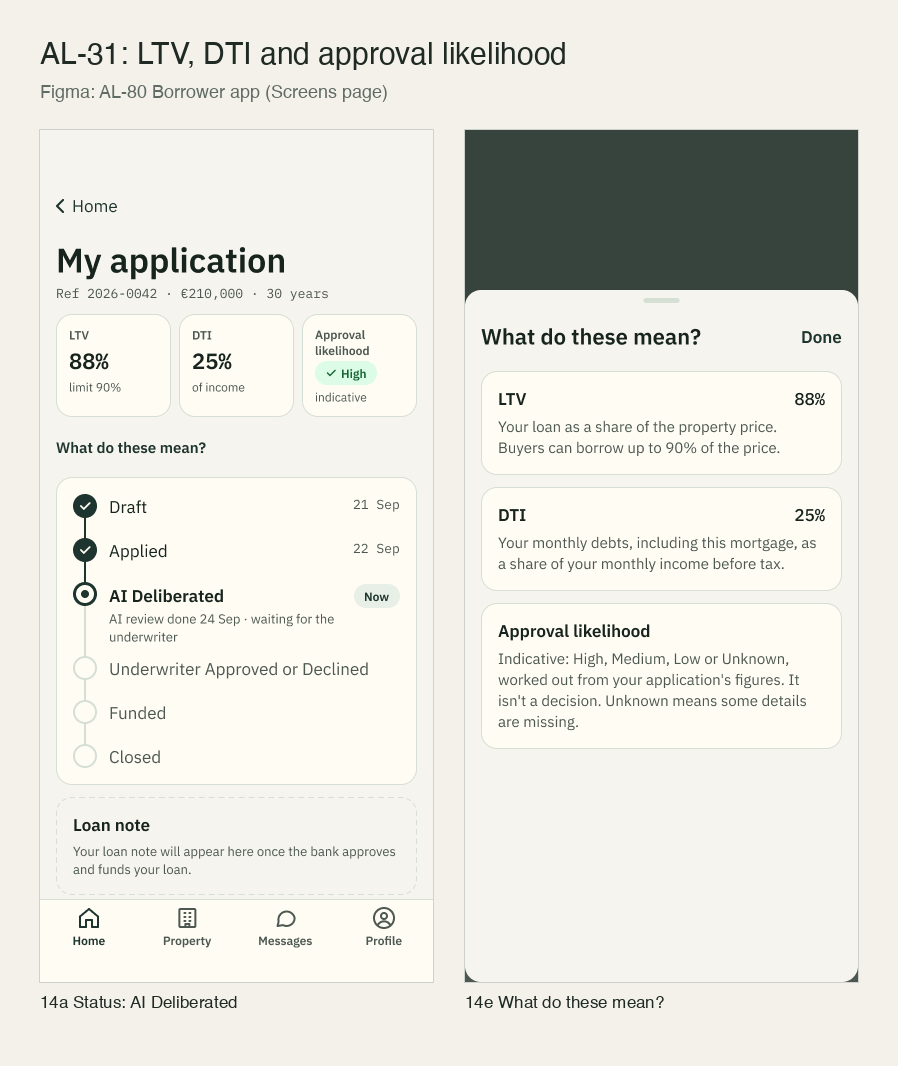
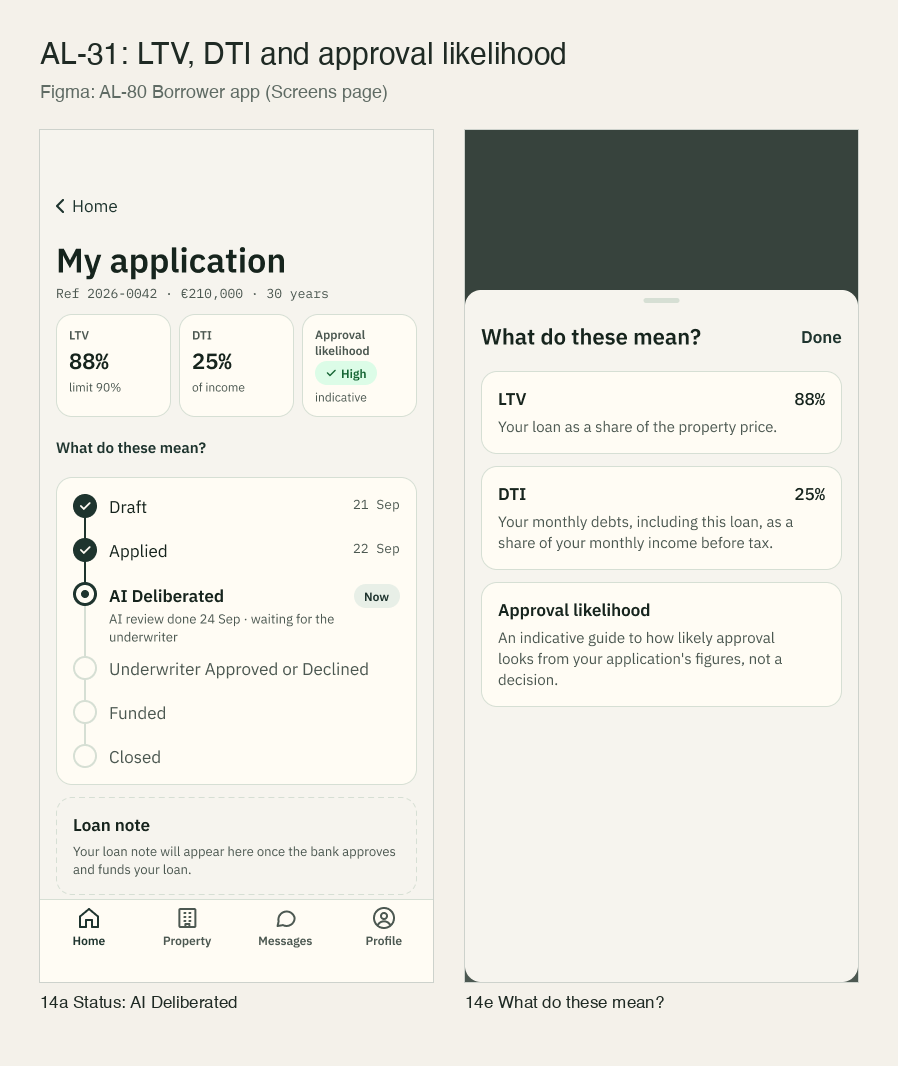
AL-203 record the status figures re-run in Ibrahima's test case, wireframe and PR list
Step 2 passed when run again on 10 Nov on the build that shortens the explanations. The wireframe shows the new sheet from Figma, and the implementation page lists the backend PR that merged on 9 Nov.

Changed region(s): [[0.5301, 0.4024, 0.9354, 0.6811]]

diff --git a/docs/sprint-2-submission/ibrahima/AL-31/test-case.md b/docs/sprint-2-submission/ibrahima/AL-31/test-case.md
@@ -4,7 +4,8 @@
 
 **Tested by:** Ibrahima Toure  
 **Date run:** 6 Nov 2026  
-**Build:** `main` at commit `66e32f0`
+**Build:** `main` at commit `66e32f0`  
+**Step 2 run again:** 10 Nov 2026, on the build from PR #196 (commit `f778244`, not merged yet)
 
 ## Preconditions
 
@@ -16,7 +17,7 @@
 | # | Criterion | Steps | Expected result | Automated check | Result |
 |---|---|---|---|---|---|
 | 1 | 1 | Open the submitted application. | LTV and DTI as percentages and approval likelihood as High, Medium, Low or Unknown. | LoanFiguresTests: APurchaseReadsItsPurchasePriceLTV, EveryLikelihoodLabelIsRead | ☑ Pass ☐ Fail |
-| 2 | 2 | Read the text under each figure. | Each figure has a one-line plain-English explanation. | LoanFiguresTests.EachFigureHasAPlainExplanation | ☐ Pass ☑ Fail |
+| 2 | 2 | Read the text under each figure. | Each figure has a one-line plain-English explanation. | LoanFiguresTests: EachFigureHasAPlainExplanation, EveryExplanationIsOneSentence | ☑ Pass ☐ Fail |
 | 3 | 3 | Look at the approval likelihood. | It is labelled "indicative" and is never a percentage. | LoanFiguresTests: APercentageForLikelihoodIsNeverShown, LikelihoodIsLabelledIndicativeInItsTone | ☑ Pass ☐ Fail |
 | 4 | 4 | With the screen open, change `approvalLikelihood` or `dtiPct` in the Emulator UI. | The card updates without a refresh. | ApplicationStatusViewModelTests.TheFiguresUpdateLiveWithTheRecord | ☑ Pass ☐ Fail |
 
@@ -24,11 +25,14 @@
 
 iOS unit tests (`AgenticLenderTests`) on `main` at `66e32f0`, iPhone 17 simulator (iOS 26.5), 6 Nov 2026: **651 passed, 0 failed, 0 skipped**. The UI tests named above (`AgenticLenderUITests`) need the emulators running and were not part of this run.
 
+On the PR #196 build (`f778244`), 10 Nov 2026: **654 passed, 0 failed, 0 skipped**, including `EveryExplanationIsOneSentence`, which is new in that PR.
+
 ## Notes
 
 - Ran on `app-declined` because Alice's submitted application has no figures yet (the backend write on submit is AL-63, still in progress). Home shows the newest-created application, so its `createdAt` was set to 6 Oct for the run and put back to 20 Sep after.
 - Step 1: LTV 90.7% (limit 90%), DTI 50.8% of income, likelihood Low. The LTV shown is `purchaseLtvPct`; the older `ltvPct` field (95) is not read, as the ticket names `purchaseLtvPct`.
-- Step 2: the explanations are in the "What do these mean?" sheet. The likelihood one runs to about four lines rather than one, so the criterion's "one-line" is not met and this step is a Fail. To fix: shorten the likelihood explanation in the app, then run this step again.
+- Step 2: the explanations are in the "What do these mean?" sheet. On 6 Nov this step failed: the likelihood explanation ran to about four lines against the criterion's "one-line". The explanations were then cut to one sentence each (subtask AL-303, PR #196). "One-line" is read as one sentence, because one sentence can still wrap to two lines on a phone.
+- Step 2, run again on 10 Nov on the PR #196 build: on Alice's `app-applied` (mortgage, likelihood Unknown) the sheet read "Your loan as a share of the property price.", "Your monthly debts, including this loan, as a share of your monthly income before tax." and "We can't estimate this yet because some details are missing." On Ben's `app-approved` (HELOC, High) it read "What you still owe plus the credit line, as a share of your home's estimated value." and "An indicative guide to how likely approval looks from your application's figures, not a decision." The tiles still showed limit 90% and limit 80%. Pass. For this run `app-approved` had its `createdAt` set to 6 Oct in the emulator, which is not saved.
 - Step 4: changed `dtiPct` 50.8 → 42.0 and `approvalLikelihood` Low → Medium in the emulator; the tiles and the open sheet updated within 5 seconds with no refresh. Put back afterwards. A change made by the backend itself (an edit or a committee re-run) is tested once AL-63 lands.
 - Also seen on a HELOC (`app-approved`): the first tile reads Combined LTV 57.8%, limit 80%, instead of the purchase LTV.
 - Since this run: the backend write on submit merged on 9 Nov (#185). Running these steps again on a freshly submitted application is still to do.

diff --git a/docs/sprint-2-submission/ibrahima/AL-31/implementation.md b/docs/sprint-2-submission/ibrahima/AL-31/implementation.md
@@ -16,5 +16,6 @@ Added the LTV, DTI and approval likelihood figures to the status screen.
 |---|---|---|---|
 | [#103](https://github.com/CS3-Agentic-Lender/agentic-lender/pull/103) | AL-252 Return ltv_band and risk_tier from GET /core/applications/{id} | 2026-10-27 | Dumi |
 | [#172](https://github.com/CS3-Agentic-Lender/agentic-lender/pull/172) | AL-63 Add the approval likelihood rule and the fields the listener will write | 2026-11-06 | Nic |
+| [#185](https://github.com/CS3-Agentic-Lender/agentic-lender/pull/185) | AL-63 Write the borrower's figures on submit and recalculate them when a run completes | 2026-11-09 | Nic |
 
-> Still open: AL-63 (Nic) writes these figures when the application is submitted. Only part of it is merged so far (#172), so add the rest of its PRs here once it lands.
+> Still open: [#196](https://github.com/CS3-Agentic-Lender/agentic-lender/pull/196) (AL-303, Ibrahima) makes each explanation in the "What do these mean?" sheet one sentence. Add it to the iOS table once it is merged.
